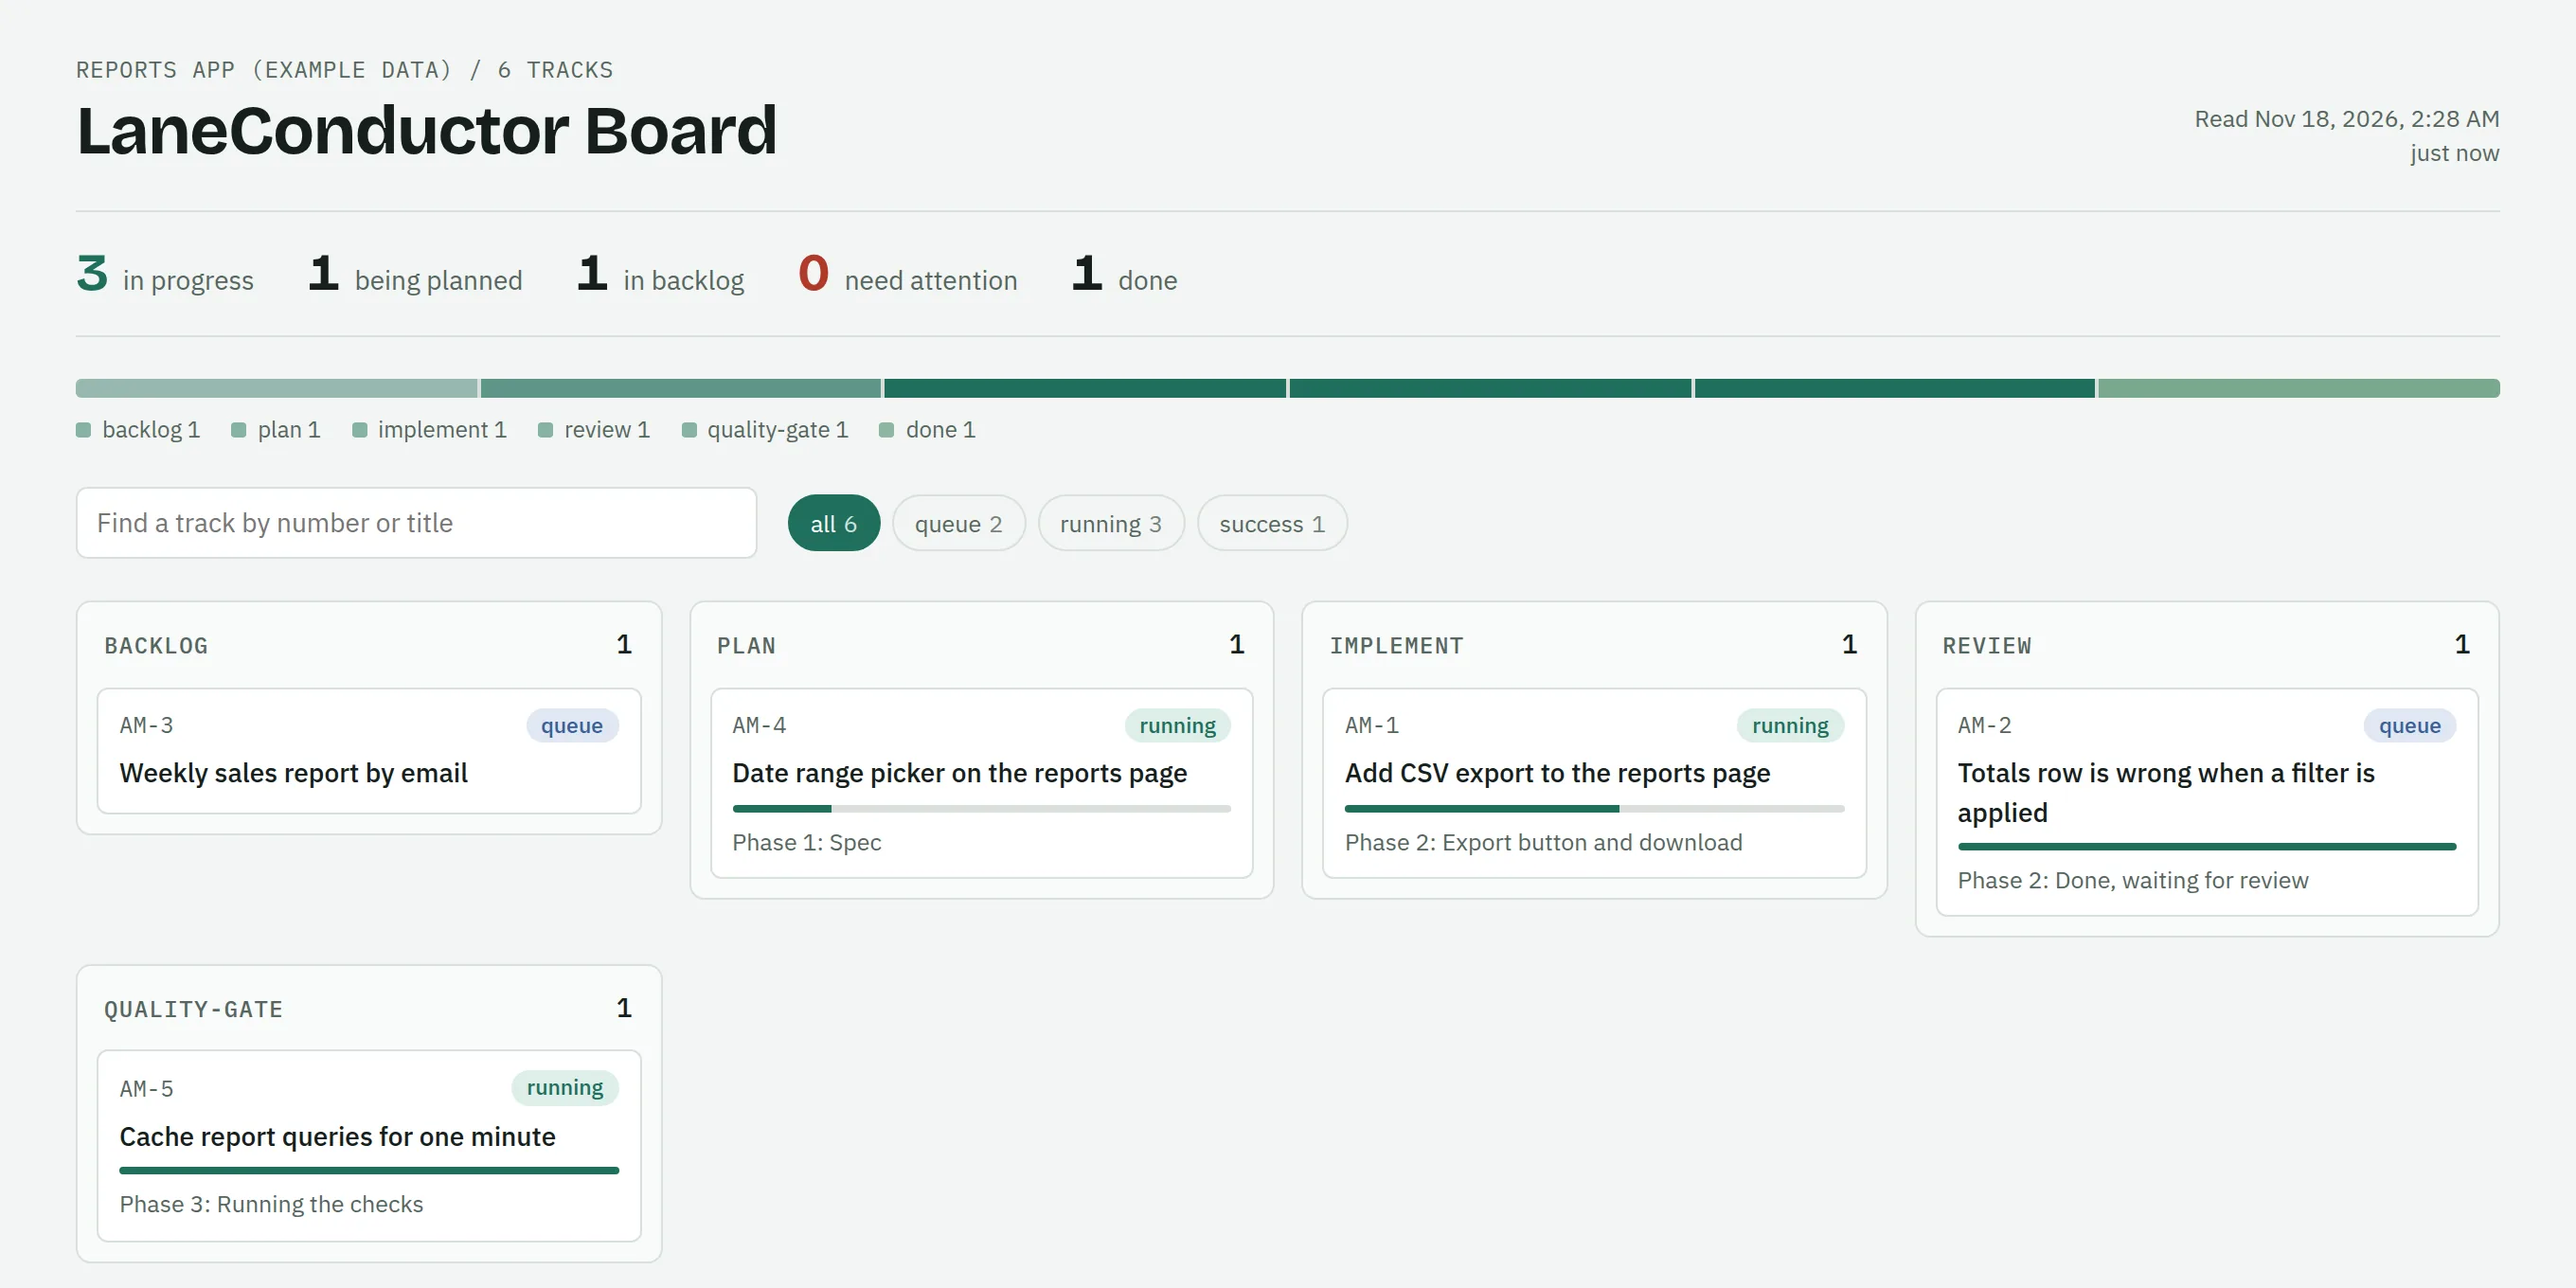
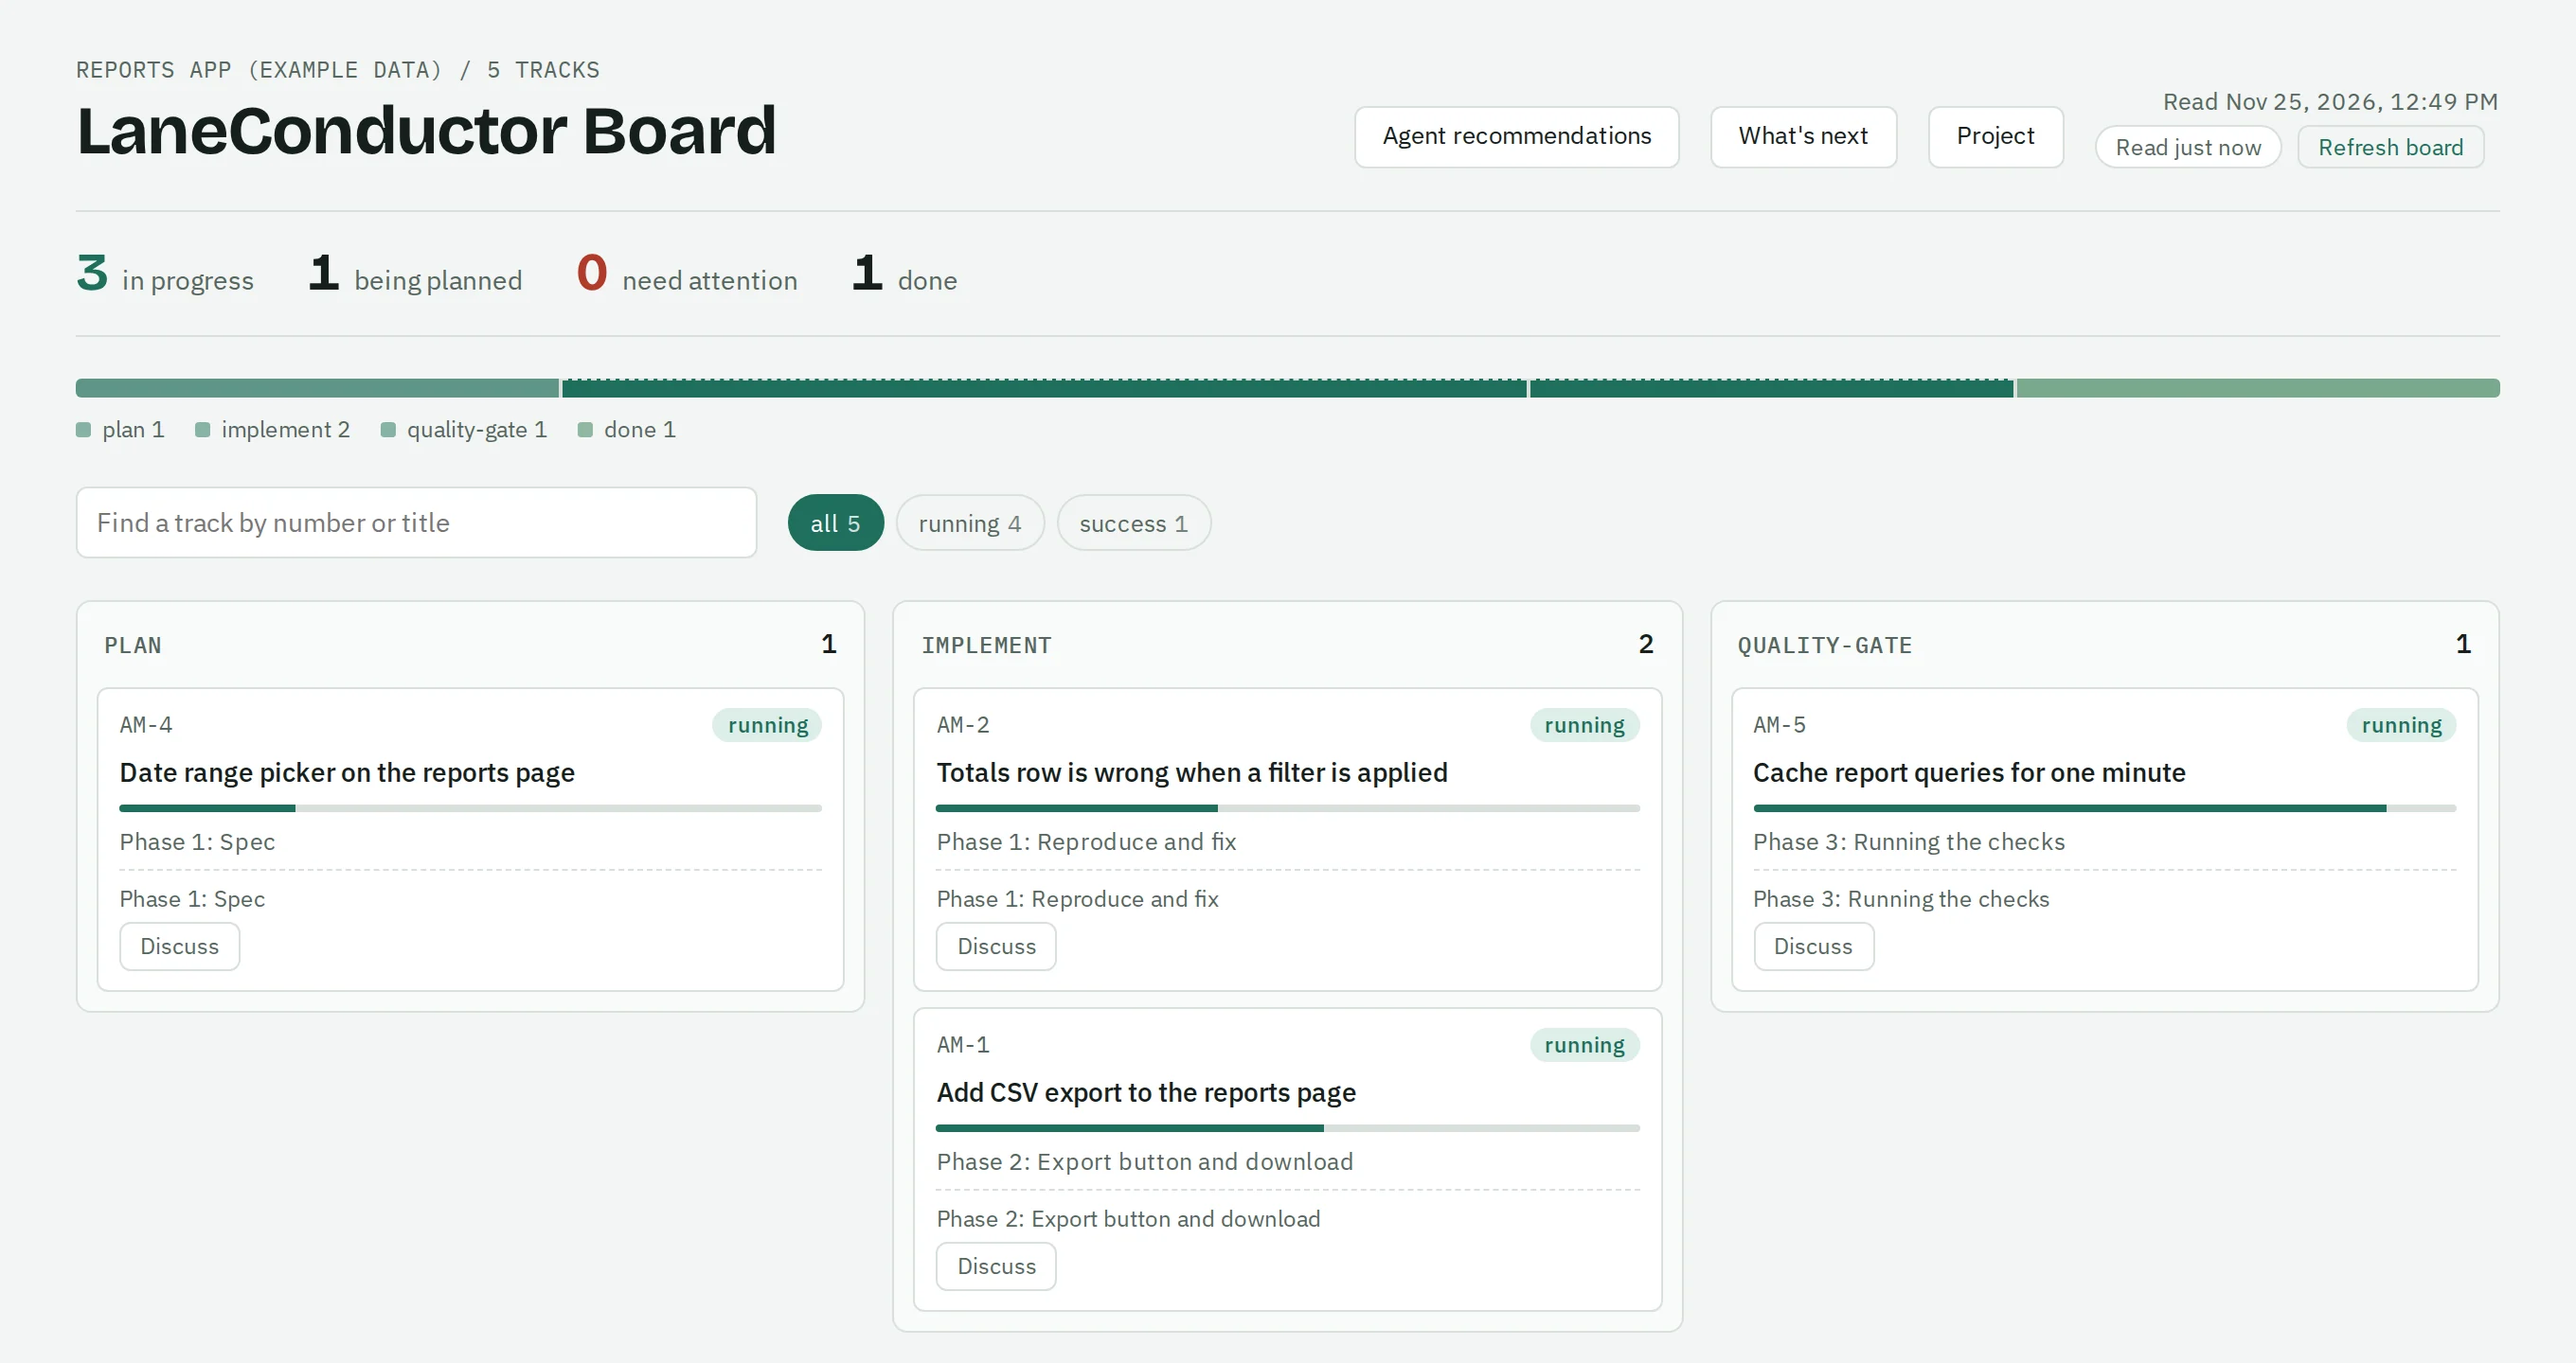
feat(site): example board image regenerated with the current UI: plan, implement and quality-gate lanes, no backlog, five invented tracks; sizes, alt text and captions updated

diff --git a/landing/index.html b/landing/index.html
@@ -1911,8 +1911,8 @@
     <!-- DASHBOARD PREVIEW: the real board, example data (replaces a hand-made mock) -->
     <div class="preview-section container">
         <figure class="preview-shot fade-in">
-            <a href="/docs/example-board-overview.webp"><img src="/docs/example-board-overview.webp" width="1360" height="680" alt="The LaneConductor board for an example project, 'Reports app (example data)', with six tracks. Cards sit in the backlog, plan, implement, review and quality-gate lanes, each with a running or queue label, a progress bar and the current phase." /></a>
-            <figcaption>Example data: six invented tracks. Select the image to enlarge it.</figcaption>
+            <a href="/docs/example-board-overview.webp"><img src="/docs/example-board-overview.webp" width="1360" height="720" alt="The LaneConductor board for an example project, 'Reports app (example data)', with five tracks. Cards sit in the plan, implement and quality-gate lanes, each with a running label, a progress bar and the current phase. The counts above show three in progress, one being planned and one done." /></a>
+            <figcaption>Example data: five invented tracks. Select the image to enlarge it.</figcaption>
         </figure>
     </div>
 
@@ -2225,8 +2225,8 @@ Account managers copy the numbers from the reports page into a spreadsheet by ha
                     <span class="wc-tag">With</span>
                     <p>The board is a private dashboard generated from the track files: every track by lane, with its progress and phase. Claude publishes it as an artifact with your approval. It is a snapshot, so it changes when you ask Claude to update it. Every document is scanned for secrets and personal data before it goes on the board, and opening a track shows its plan, spec and tests.</p>
                     <figure class="wc-fig">
-                        <a href="/docs/example-board-overview.webp"><img src="/docs/example-board-overview.webp" width="1360" height="680" loading="lazy" alt="The LaneConductor board for an example project, 'Reports app (example data)', with six tracks. Cards sit in the backlog, plan, implement, review and quality-gate lanes, each with a running or queue label, a progress bar and the current phase. The counts above show three in progress, one being planned, one in the backlog and one done." /></a>
-                        <figcaption>The board for the example project. Example data: six invented tracks. Select the image to enlarge it.</figcaption>
+                        <a href="/docs/example-board-overview.webp"><img src="/docs/example-board-overview.webp" width="1360" height="720" loading="lazy" alt="The LaneConductor board for an example project, 'Reports app (example data)', with five tracks. Cards sit in the plan, implement and quality-gate lanes, each with a running label, a progress bar and the current phase. The counts above show three in progress, one being planned and one done." /></a>
+                        <figcaption>The board for the example project. Example data: five invented tracks. Select the image to enlarge it.</figcaption>
                     </figure>
                     <figure class="wc-fig">
                         <a href="/docs/example-board-track-plan.webp"><img src="/docs/example-board-track-plan.webp" width="1360" height="700" loading="lazy" alt="The same board with the track 'Add CSV export to the reports page' opened. The Plan tab shows three phases of tasks, with the first five ticked, at 55 percent progress in the implement lane." /></a>
